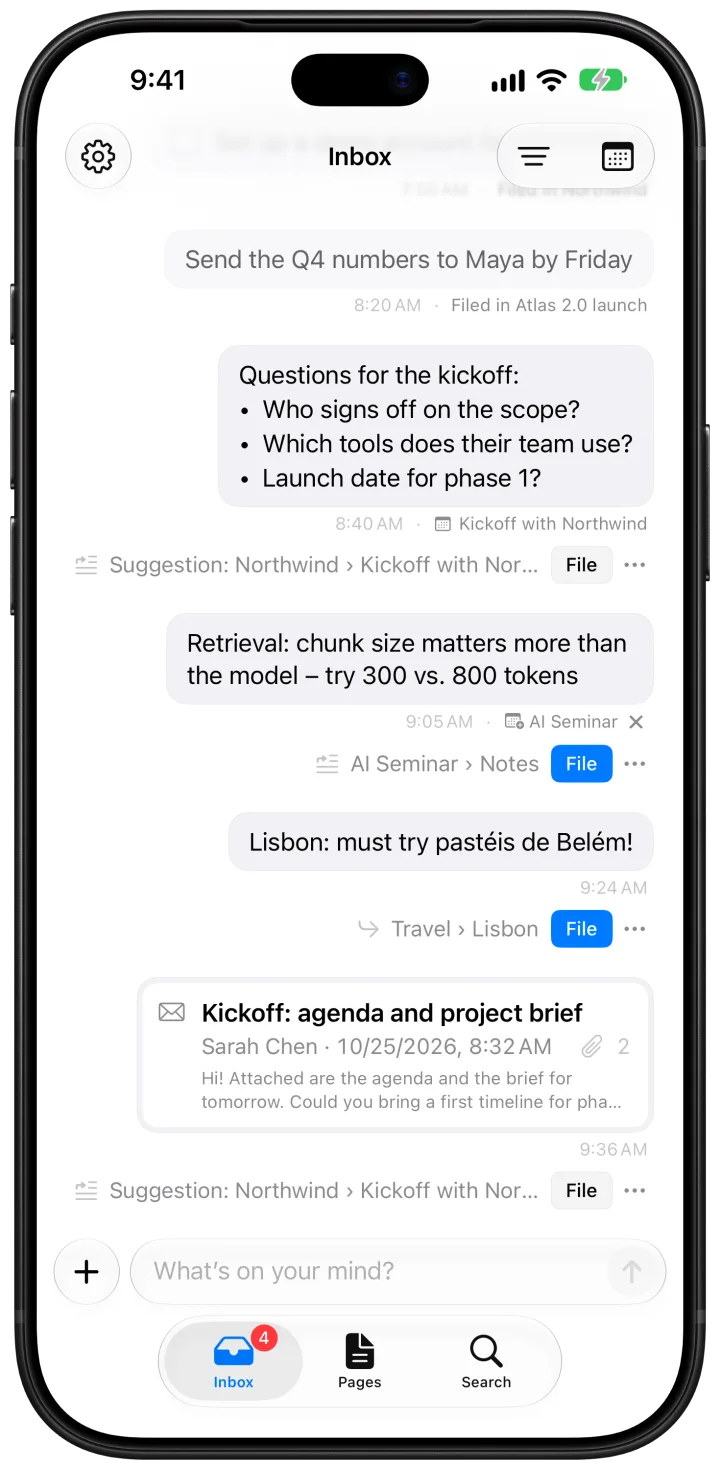
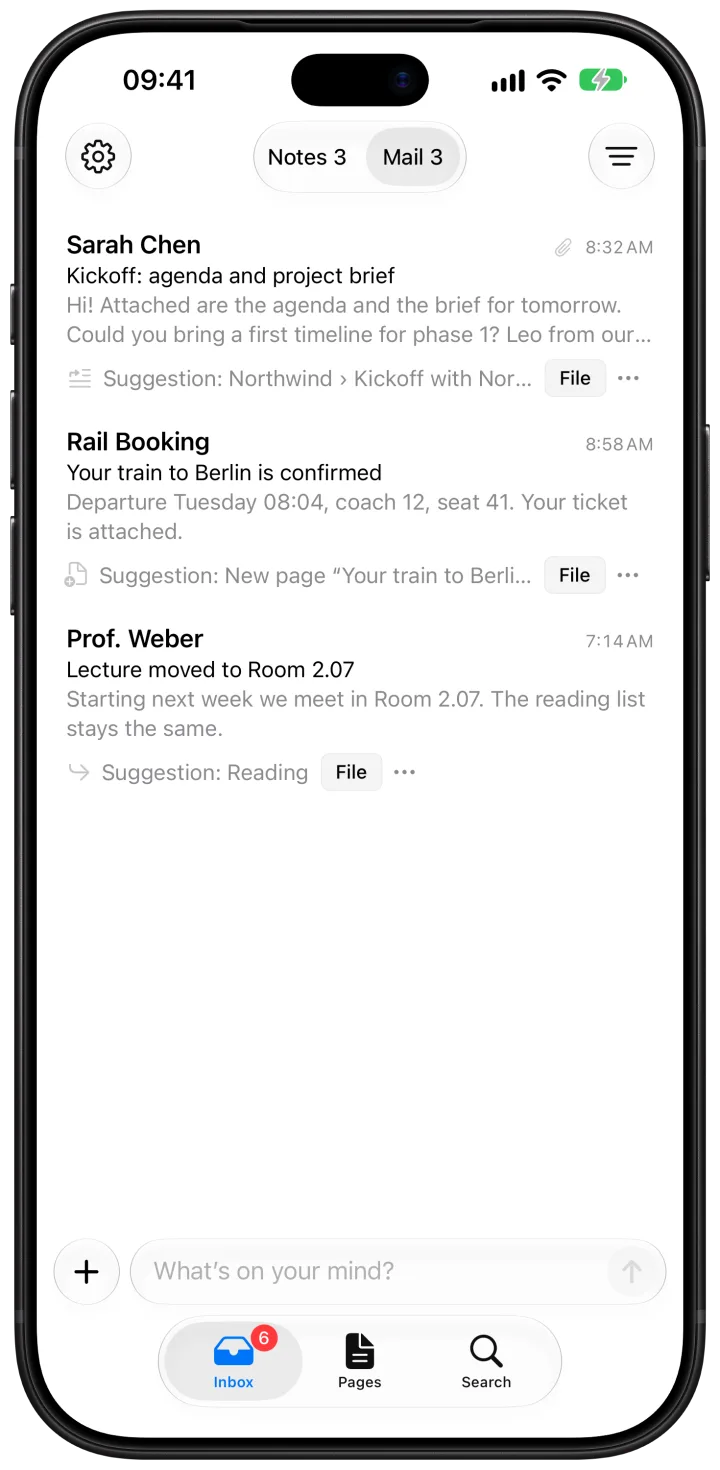
content: show mail in its own inbox list
The app now separates received mail from typed notes. New iPhone mail shot
and Mac inbox shot, updated mail copy and alt text.

diff --git a/src/routes/+page.svelte b/src/routes/+page.svelte
@@ -208,17 +208,18 @@
 		<div class="copy" use:reveal>
 			<p class="eyebrow">Mail</p>
 			<h2 id="mail-title" class="title">Mail, right where it belongs.</h2>
-			<p class="lead">The client’s reply, the booking confirmation, the invoice. Keep the mails that matter next to the notes they belong to.</p>
+			<p class="lead">The client’s reply, the booking confirmation, the invoice. Mail gets its own list in your inbox, apart from what you typed, so you can sort it in one pass and keep what matters next to the notes it belongs to.</p>
 			<img class="mail-card" src="/shots/card-mail.webp" alt="A mail card: Kickoff: agenda and project brief, from Sarah Chen, with two attachments" width="1136" height="210" loading="lazy" />
 			<ul class="checks">
-				<li><b>Drag a mail from Apple Mail</b> into the inbox or onto any page. It becomes a card with sender, subject, a preview and the attachments.</li>
+				<li><b>Review it like Mail.</b> Sender, subject and a preview at a glance. Tap to read, then file it where Mote suggests or pick a page yourself.</li>
+				<li><b>Drag a mail from Apple Mail</b> into the inbox or onto any page. On a page it becomes a card with sender, subject, a preview and the attachments.</li>
 				<li><b>Pick senders once,</b> and on the Mac the Mote extension for Mail drops their mails into your inbox on its own.</li>
 				<li><b>Share a mail to Mote</b> on iPhone and iPad.</li>
 				<li><b>A Mail column</b> turns any table into a tracker for applications, orders or support tickets.</li>
 			</ul>
 		</div>
 		<div class="media" use:reveal={120}>
-			<Device kind="iphone" name="mail" alt="The Mote inbox on iPhone with the client’s mail as a card below the notes" class="phone" />
+			<Device kind="iphone" name="mail" alt="The Mail list of the Mote inbox on iPhone: three mails with sender, subject, a preview and a filing suggestion, next to a switch between Notes and Mail" class="phone" />
 		</div>
 	</div>
 </section>

diff --git a/README.md b/README.md
@@ -28,7 +28,7 @@ pnpm build      # static pages + Vercel output
 
 ## Screenshots
 
-The shots are the real app with the UI-test seed data (`-uitest -seed website`, the inbox shot `-seed website-inbox`;
+The shots are the real app with the UI-test seed data (`-uitest -seed website`, the inbox shot `-seed website-inbox`, the mail list `-seed website -inboxScope mails`;
 the scenario is `UITestWebsite.swift` in the app repo, how to shoot is in `Design/AppStore/README.md` there): iPhone 17
 Pro Max and iPad Pro 13" (M5) simulators, and the Mac app with `-windowSize 1280x795` so the window fills the MacBook Air
 screen below the menu bar. The drawing on "RAG talk" is generated from the single-stroke font EMS Elfin (SIL OFL).
